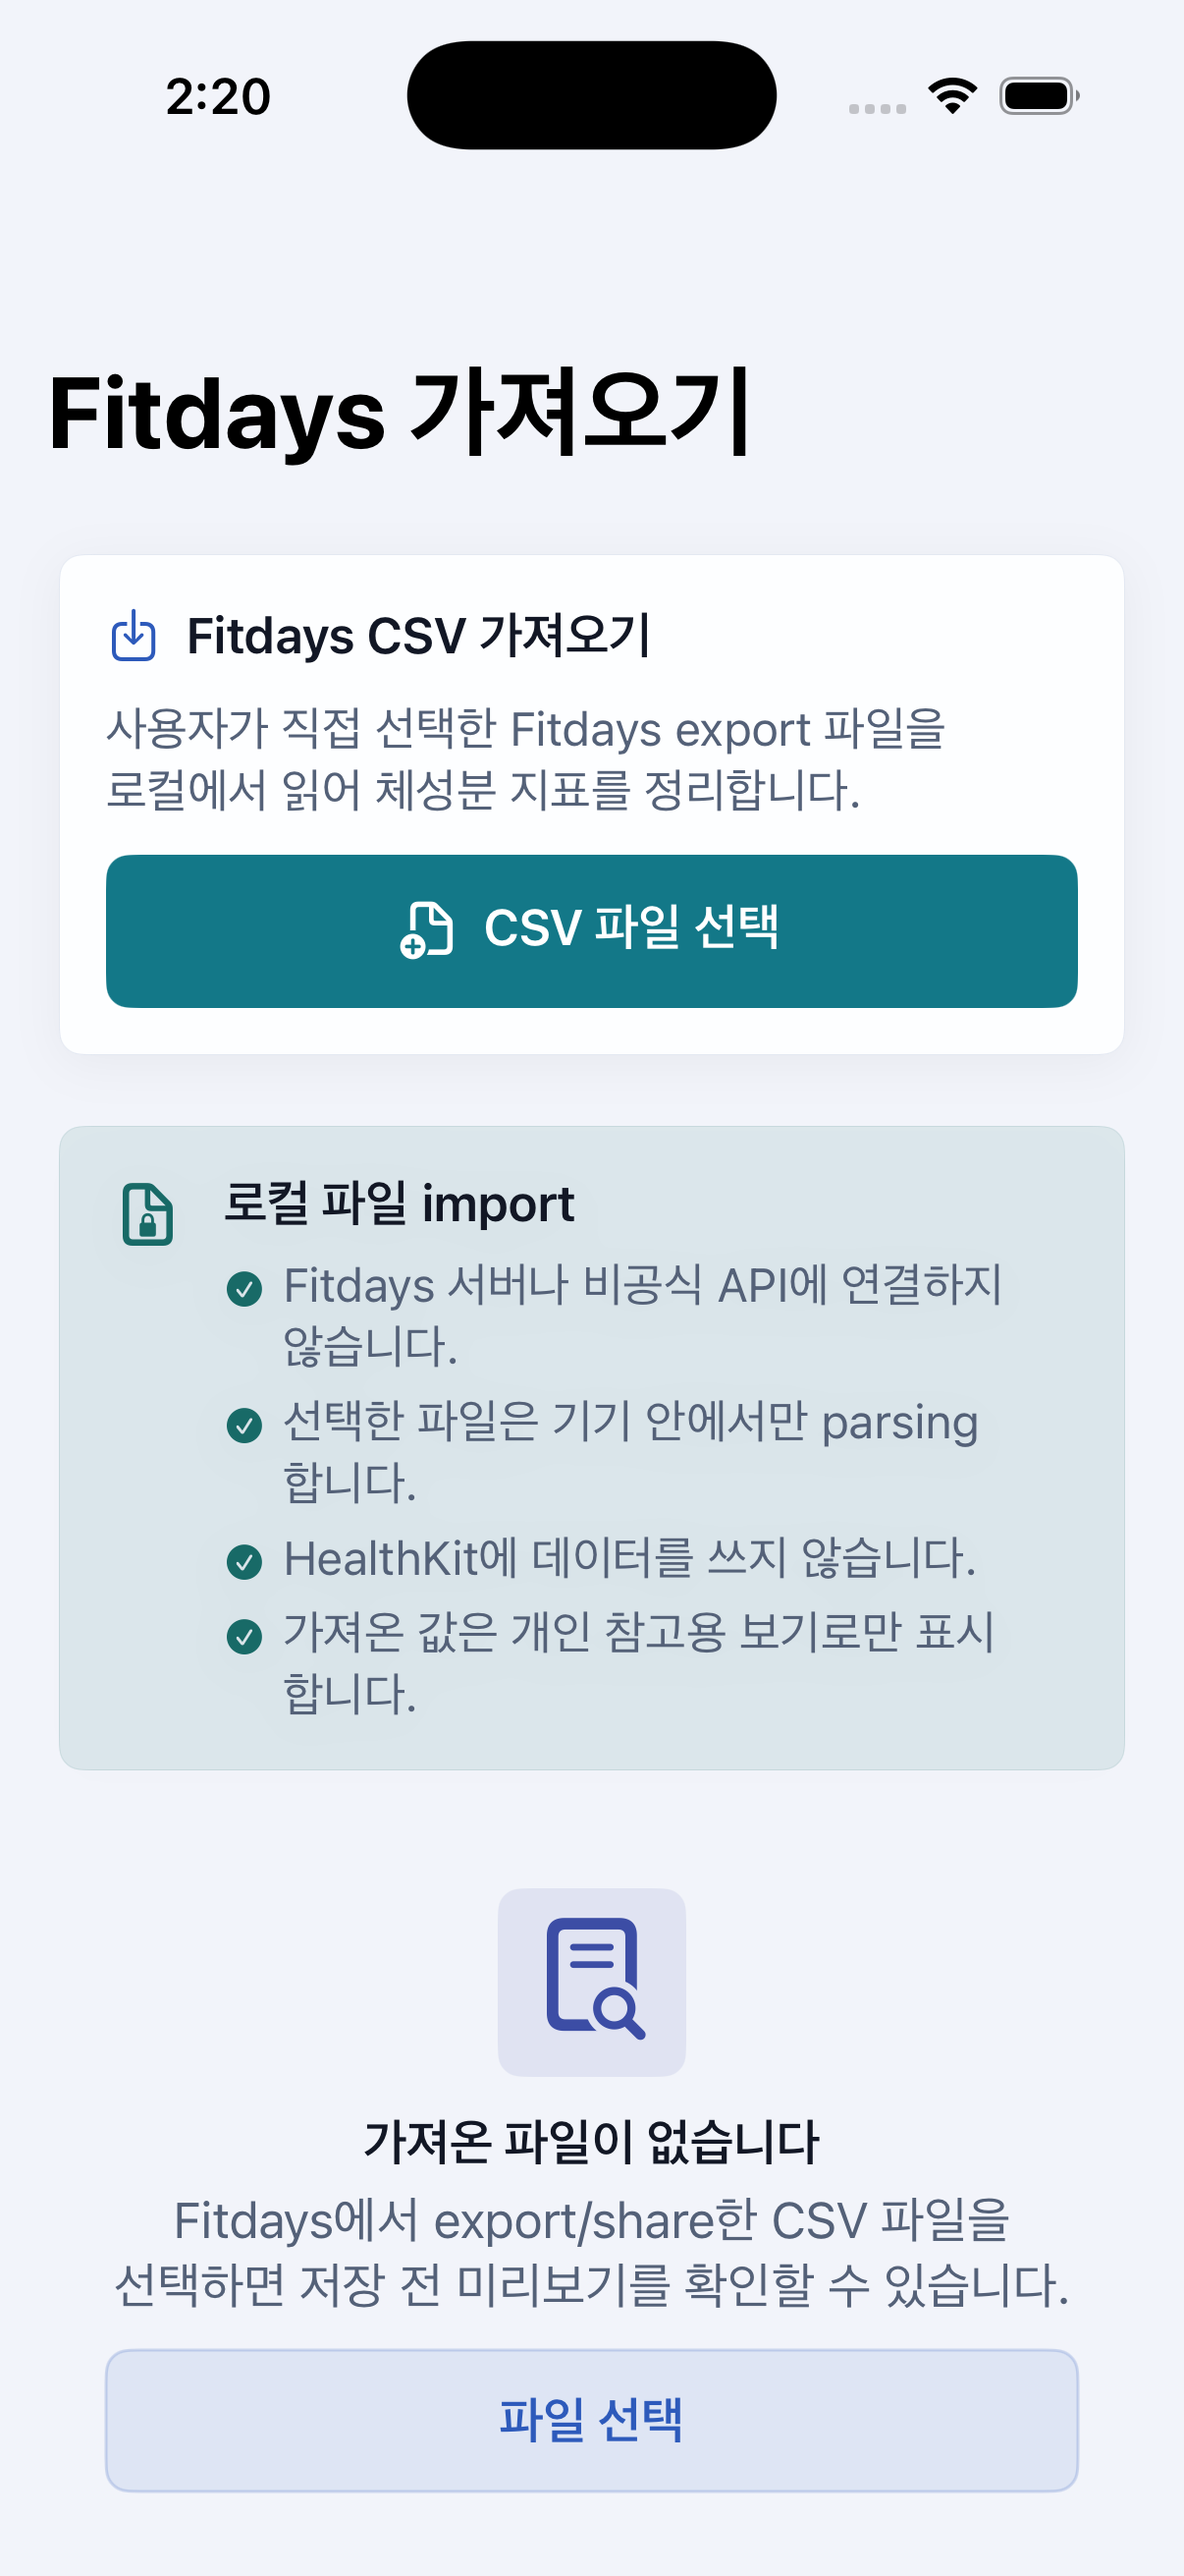
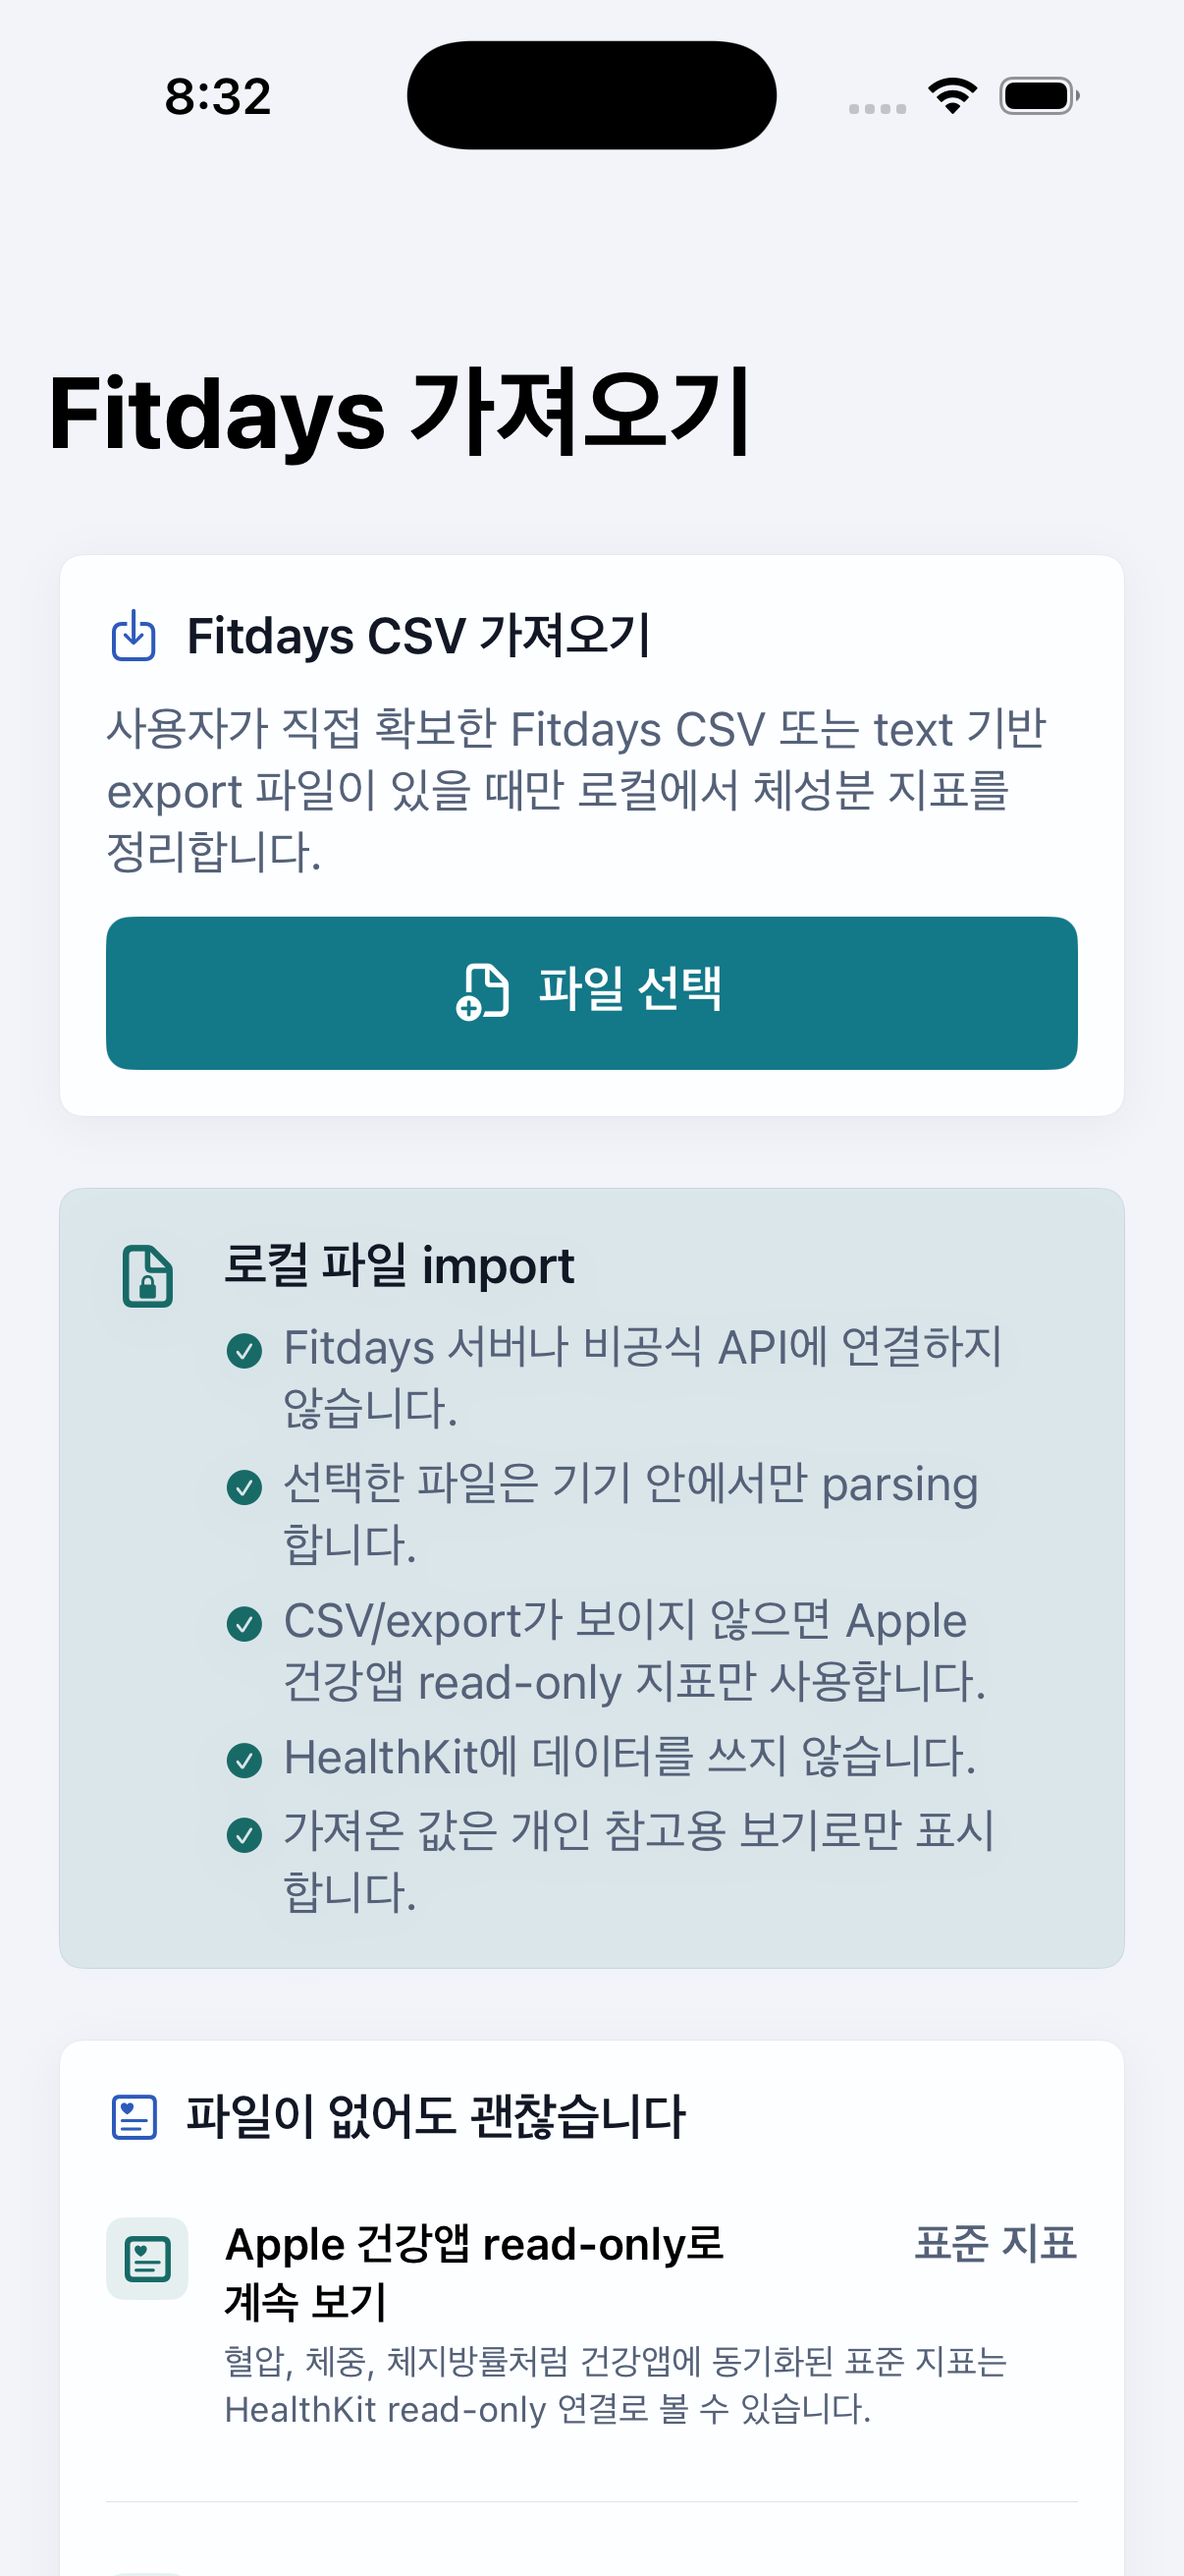
Clarify Fitdays import fallback flow

diff --git a/SleepSoundApp/Features/Dashboard/FitdaysImportView.swift b/SleepSoundApp/Features/Dashboard/FitdaysImportView.swift
@@ -35,6 +35,7 @@ struct FitdaysImportView: View {
       VStack(alignment: .leading, spacing: NBSpacing.sectionVertical) {
         headerSection
         policySection
+        fallbackSection
 
         if let importResult {
           resultSection(importResult)
@@ -104,6 +105,42 @@ struct FitdaysImportView: View {
       actionTitle: "파일 선택"
     ) {
       isFileImporterPresented = true
+    }
+  }
+
+  private var fallbackSection: some View {
+    NBReportSection(title: "파일이 없어도 괜찮습니다", systemImage: "heart.text.square") {
+      VStack(alignment: .leading, spacing: NBSpacing.medium) {
+        NBListRow(
+          title: "Apple 건강앱 read-only로 계속 보기",
+          value: "표준 지표",
+          subtitle: "혈압, 체중, 체지방률처럼 건강앱에 동기화된 표준 지표는 HealthKit read-only 연결로 볼 수 있습니다.",
+          systemImage: "heart.text.square",
+          tint: NBColor.privacyTint
+        )
+
+        Divider().overlay(NBColor.divider)
+
+        NBListRow(
+          title: "Fitdays 고유 지표는 후속 로컬 입력으로 분리",
+          value: "보류",
+          subtitle: "CSV/export 파일이 없으면 체수분률, 내장지방 레벨 같은 Fitdays 고유 지표는 수동 입력 또는 로컬 입력 기능으로 분리합니다.",
+          systemImage: "square.and.pencil",
+          tint: NBColor.mistTeal
+        )
+
+        NavigationLink {
+          HealthDashboardView()
+        } label: {
+          Label("건강 데이터 대시보드 보기", systemImage: "heart.text.square")
+        }
+        .buttonStyle(.nbSecondary)
+
+        Text("NightBreath는 Fitdays 로그인, 서버/API 연결, 자동 동기화, 비공식 연결 방식을 사용하지 않습니다.")
+          .font(NBTypography.footnote)
+          .foregroundStyle(NBColor.secondaryText)
+          .fixedSize(horizontal: false, vertical: true)
+      }
     }
   }
 

diff --git a/Tests/AppStoreReadinessTests.swift b/Tests/AppStoreReadinessTests.swift
@@ -73,6 +73,11 @@ struct AppStoreReadinessTests {
         #expect(importView.contains("service.previewImport(from: fileURL)"))
         #expect(importView.contains("CSV/export가 보이지 않으면 Apple 건강앱 read-only 지표만 사용합니다."))
         #expect(importView.contains("파일이 없다면 건강앱 read-only 지표만 사용해도 됩니다."))
+        #expect(importView.contains("파일이 없어도 괜찮습니다"))
+        #expect(importView.contains("Apple 건강앱 read-only로 계속 보기"))
+        #expect(importView.contains("건강 데이터 대시보드 보기"))
+        #expect(importView.contains("Fitdays 고유 지표는 수동 입력 또는 로컬 입력 기능으로 분리합니다."))
+        #expect(importView.contains("Fitdays 로그인, 서버/API 연결, 자동 동기화, 비공식 연결 방식을 사용하지 않습니다."))
     }
 
     @Test

diff --git a/Docs/QA_GUIDE.md b/Docs/QA_GUIDE.md
@@ -471,19 +471,20 @@ Fitdays 공식 문서상 Progress Report, History Records, Data Reports, data ex
 4. Files / iCloud Drive / AirDrop / Mail 등으로 로컬 파일을 저장할 수 있는지 확인합니다.
 5. CSV가 보이지 않으면 Account / Export My Data / Customer Service Center 경로를 확인합니다.
 6. 그래도 export 파일을 확보할 수 없으면 Apple 건강앱 read-only 표준 지표만 사용하고, Fitdays 고유 지표는 manual input follow-up으로 남깁니다.
-7. 사용자가 명시적으로 파일을 선택할 때만 import가 시작되는지 확인합니다.
-8. valid CSV에서 preview, result, 샘플 개수, skipped row, unknown column이 표시되는지 확인합니다.
-9. invalid date/time row가 앱을 멈추지 않고 skipped row로 처리되는지 확인합니다.
-10. localized column name, 단위 suffix, 날짜/시간 형식 차이가 flexible mapping으로 처리되는지 확인합니다.
-11. HealthKit 표준 지표가 CSV에 있어도 `sourceType == fitdaysCSV`로 보이는지 확인합니다.
-12. Fitdays 확장 지표는 HealthKit 기반이 아니라 로컬 전용으로 설명되는지 확인합니다.
-13. import batch 삭제 흐름이 있으면 sample도 함께 사라지는지 확인합니다.
-14. Files 앱에서 `.csv` 또는 `.txt` synthetic export file을 NightBreath로 열었을 때 Fitdays import preview sheet로 연결되는지 확인합니다.
-15. unsupported extension 또는 structured export로 해석할 수 없는 text file은 저장 전에 거부되는지 확인합니다.
-16. 측정일 column은 있지만 지원 지표 column이 없는 text file은 저장 전에 거부되는지 확인합니다.
-17. 지원 지표 column은 있지만 import 가능한 sample이 0개인 file은 저장되지 않는지 확인합니다.
-18. Open in flow에서도 실제 local path가 UI나 screenshot에 표시되지 않는지 확인합니다.
-19. Fitdays 로그인, 서버/API 직접 연결, 자동 동기화, 비공식 연결 방식이 추가되지 않았는지 확인합니다.
+7. `FitdaysImportView`에 파일이 없어도 괜찮다는 fallback 섹션과 건강 데이터 대시보드 진입이 보이는지 확인합니다.
+8. 사용자가 명시적으로 파일을 선택할 때만 import가 시작되는지 확인합니다.
+9. valid CSV에서 preview, result, 샘플 개수, skipped row, unknown column이 표시되는지 확인합니다.
+10. invalid date/time row가 앱을 멈추지 않고 skipped row로 처리되는지 확인합니다.
+11. localized column name, 단위 suffix, 날짜/시간 형식 차이가 flexible mapping으로 처리되는지 확인합니다.
+12. HealthKit 표준 지표가 CSV에 있어도 `sourceType == fitdaysCSV`로 보이는지 확인합니다.
+13. Fitdays 확장 지표는 HealthKit 기반이 아니라 로컬 전용으로 설명되는지 확인합니다.
+14. import batch 삭제 흐름이 있으면 sample도 함께 사라지는지 확인합니다.
+15. Files 앱에서 `.csv` 또는 `.txt` synthetic export file을 NightBreath로 열었을 때 Fitdays import preview sheet로 연결되는지 확인합니다.
+16. unsupported extension 또는 structured export로 해석할 수 없는 text file은 저장 전에 거부되는지 확인합니다.
+17. 측정일 column은 있지만 지원 지표 column이 없는 text file은 저장 전에 거부되는지 확인합니다.
+18. 지원 지표 column은 있지만 import 가능한 sample이 0개인 file은 저장되지 않는지 확인합니다.
+19. Open in flow에서도 실제 local path가 UI나 screenshot에 표시되지 않는지 확인합니다.
+20. Fitdays 로그인, 서버/API 직접 연결, 자동 동기화, 비공식 연결 방식이 추가되지 않았는지 확인합니다.
 
 기록 시 실제 파일명과 실제 수치를 적지 않습니다.
 

diff --git a/Docs/NEXT_ISSUES.md b/Docs/NEXT_ISSUES.md
@@ -6,7 +6,7 @@
 
 1. 최종 앱 아이콘 고품질 아트워크 제작
 2. App Store screenshot marketing version 준비
-3. Fitdays export availability 재확인 및 fallback UX 보강
+3. Fitdays export availability 실기기 재확인
 4. EHM regression test 강화
 5. onboarding/device/calibration/debug 상세 screenshot 추가
 6. 실제 HealthKit permission flow manual QA
@@ -53,6 +53,7 @@
 
 - 실제 Fitdays 앱에서 CSV/export 메뉴가 보이는지 재확인
 - export 메뉴가 계속 보이지 않으면 Apple 건강앱 read-only 표준 지표를 기본 경로로 유지
+- `FitdaysImportView`의 read-only fallback UX 보강 완료
 - Fitdays 고유 지표는 manual input 또는 로컬 입력 기능 follow-up으로 분리
 - 실제 Fitdays CSV/export file을 확보한 경우에만 수동 import QA
 - 실제 Fitdays share/export에서 Open in NightBreath가 표시되는지 iPhone에서 확인

diff --git a/Docs/HEALTH_DATA_GUIDE.md b/Docs/HEALTH_DATA_GUIDE.md
@@ -164,6 +164,7 @@ CSV가 보이지 않을 때 fallback:
 - Fitdays+ 사용자라면 personal data export 요청 경로를 확인합니다.
 - 그래도 CSV 또는 structured export file을 확보할 수 없으면 Apple 건강앱 read-only 표준 지표만 사용합니다.
 - HealthKit에 없는 Fitdays 고유 지표는 manual input 또는 향후 로컬 입력 기능의 follow-up으로 남깁니다.
+- `FitdaysImportView`는 파일이 없어도 괜찮다는 섹션과 건강 데이터 대시보드 진입을 제공해, 사용자가 CSV/export 없이도 read-only 표준 지표 흐름을 계속 볼 수 있게 합니다.
 - NightBreath는 이 fallback을 위해 Fitdays 로그인, 서버/API 직접 연결, 자동 동기화, 비공식 연결 방식을 구현하지 않습니다.
 
 지원하는 mapping 예시:

diff --git a/Docs/CURRENT_STATUS.md b/Docs/CURRENT_STATUS.md
@@ -66,6 +66,7 @@
 - `HealthMetricSourceType`
 - `MetricCatalog`
 - Fitdays CSV/import flow
+- Fitdays CSV/export 미확보 시 HealthKit read-only fallback UX
 - `ImportBatch`
 - synthetic Fitdays CSV fixture
 - HealthKit 기반 지표와 Fitdays 로컬 전용 지표 출처 구분
